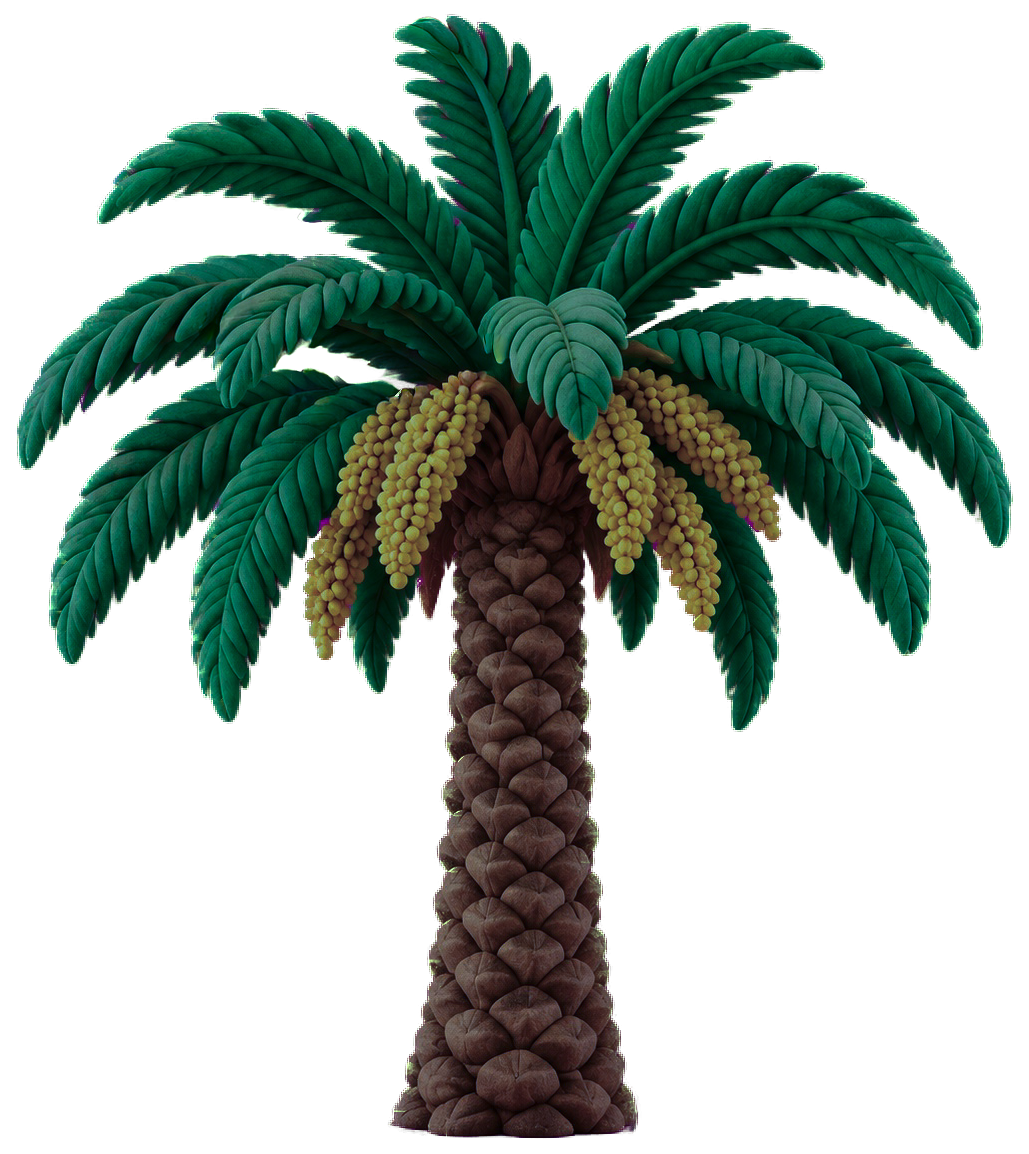
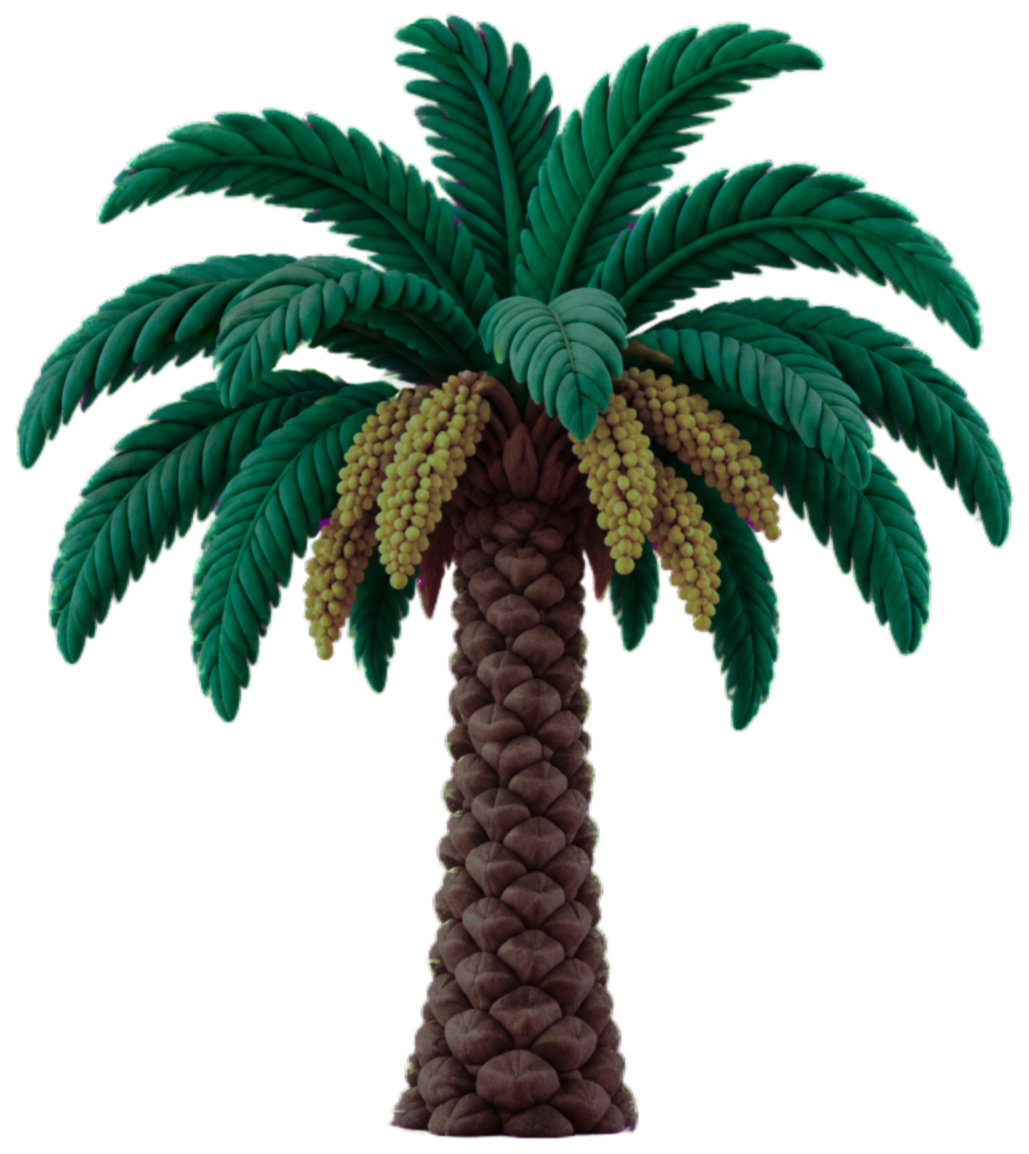
Smooth the jagged palm tree silhouette across all three periods
The creator's "fait a l'arrache" feedback traced to a real issue: the
palmier's source has an extremely narrow alpha transition (~1px), and
the smoothstep curve already in this pipeline sharpens rather than
softens that, producing a visibly jagged/staircase edge along the
fronds' long thin diagonal edges (much more noticeable there than on
the frangipanier's rounder petals with the same underlying trait).

Fixed with a small premultiplied-alpha Gaussian blur (sigma ~0.9px) on
top of the existing alpha -- blurring color*alpha and alpha together
rather than alpha alone, so softened edge pixels inherit real nearby
color instead of an undefined one from deep background. Re-cut all
three palmier periods; left the frangipanier and other earlier cutouts
alone since they don't show the same visible defect.

Claude-Session: https://claude.ai/code/session_01QJhmBXxG8bP3KG6H3AZ1rh

diff --git a/mobile/README.md b/mobile/README.md
@@ -797,6 +797,27 @@ and it's really there, a rim-shadow between overlapping leaflets baked
 into the render, so it was left alone rather than "fixed" into
 something the creator never drew.
 
+The creator's next reaction, though, was a fair "fait a l'arrache" ("a
+bit rushed") pointed specifically at the palmier's outline -- and
+looking closer, the silhouette really was jaggier/more staircase-y than
+the frangipanier's. Root cause: this file's alpha is derived from the
+source's own transition width, and the palmier's transition turned out
+to be extremely narrow -- one profile measured a jump from alpha 197
+to 7 across a single pixel. The smoothstep curve applied on top
+sharpens a transition rather than softening one, so a 1px-wide edge
+stayed a 1px-wide edge -- fine on the frangipanier's large, rounded,
+softly-lit petals where a hard pixel step is easy to miss, glaring on
+the palmier's long thin diagonal frond edges where it reads as a
+staircase. Fixed with a small Gaussian blur (sigma ~0.9px) on top of
+the existing alpha -- done as a premultiplied-alpha blur (blur
+color*alpha and alpha together, then divide back out) rather than
+blurring alpha alone, so a softened edge pixel inherits real nearby
+color instead of an undefined one from deep in the background. Applied
+to all three palmier periods; the frangipanier and the other earlier
+cutouts have the same narrow-transition trait underneath but read fine
+without it, so they were left as they are rather than reprocessed on
+spec.
+
 Every node and decor piece also casts a contact shadow now -- the
 creator asked directly how the scroll would actually read as "resting
 on a curved surface" rather than flat stickers pasted over it.
